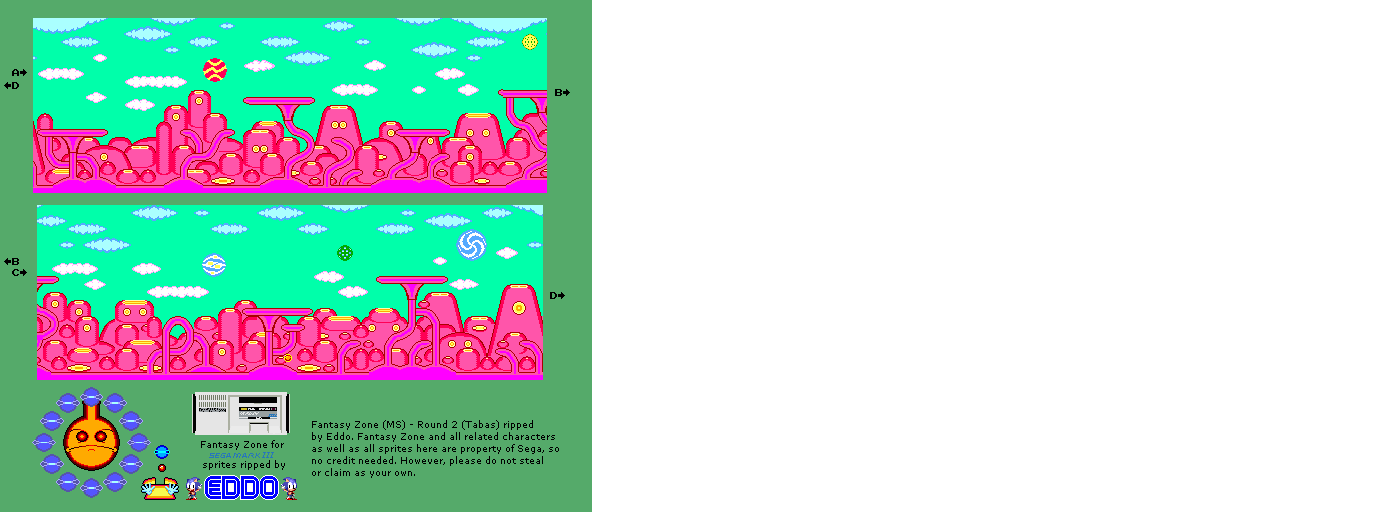
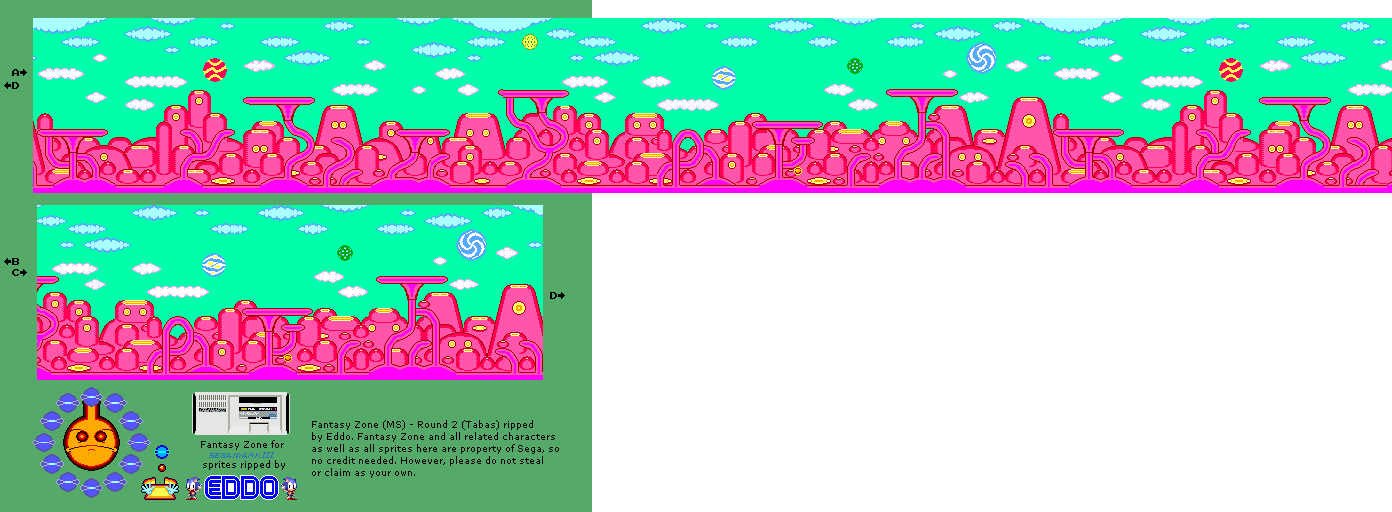
Level 2 background

Changed region(s): [[0.3707, 0.0312, 1.0, 0.375]]

diff --git a/src/Game/Game.cpp b/src/Game/Game.cpp
@@ -15,10 +15,17 @@ Game::Game()
 	if (!background1.loadFromFile("../res/Levels/Round 1 Wrapped.png"))
 		std::cerr << "Error loading Level Background";
 	backgroundSprite1 = new sf::Sprite(background1);
+
+	if (!background2.loadFromFile("../res/Levels/Round 2 Wrapped.png"))
+		std::cerr << "Error loading Level Background";
+	backgroundSprite2 = new sf::Sprite(background2);
+	curBackgroundSprite = backgroundSprite1;
 	//backgroundSprite1->setScale(sf::Vector2f{3.2f,2.5f});
-
-	//Set up viewport
-
+	//Set up viewports
+	viewport.setSize(sf::Vector2f{ 250.f,175.f });
+	viewport.setCenter(sf::Vector2f{ 840.f,101.5f });
+	viewportStart.setSize(sf::Vector2f{ 253.f,197.f });
+	viewportStart.setCenter(sf::Vector2f{ 140.5f,108.5f });
 	player->initialize();
 	initialize();
 	player->getView(&viewport);
@@ -57,16 +64,6 @@ void Game::run()
 	std::cout << window.isOpen() << std::endl;
 	while (window.isOpen())
 	{
-		reset();
-
-		//Set up viewports
-		viewport.setSize(sf::Vector2f{ 250.f,175.f });
-		viewport.setCenter(sf::Vector2f{ 840.f,101.5f });
-		viewportStart.setSize(sf::Vector2f{ 253.f,197.f });
-		viewportStart.setCenter(sf::Vector2f{ 140.5f,108.5f });
-
-		playerLives = 3;
-		player->reset();
 		score = 0;
 		tick = 0;
 
@@ -98,6 +95,12 @@ void Game::run()
 			window.draw(*backgroundSpriteStart);
 			window.display();
 			tick++;
+			if (gameBegun)
+			{
+				reset();
+				playerLives = 3;
+				player->reset();
+			}
 		}
 
 
@@ -107,6 +110,7 @@ void Game::run()
 
 		while (start && window.isOpen())
 		{
+			gameBegun = true;
 			while (const std::optional event = window.pollEvent())
 			{
 				if (event->is<sf::Event::Closed>())
@@ -132,11 +136,27 @@ void Game::run()
 
 			window.setView(viewport);
 
-			if (loading)
+			if (loading||swapLevels)
 			{
 				std::make_shared<Coin>(viewport.getCenter(), 1)->initialize();
 				setScreen("Player 1 Start");
 				loading = false;
+				if (swapLevels)
+				{
+					player->reset();
+					reset();
+				}
+				swapLevels = false;
+				switch (level)
+				{
+				case 1:
+					curBackgroundSprite = backgroundSprite1;
+					break;
+				case 2:
+					curBackgroundSprite = backgroundSprite2;
+					viewport.setCenter(sf::Vector2f{ 840.f,105.5f });
+					break;
+				}
 			}
 			else if (!loading)
 			{
@@ -166,7 +186,7 @@ void Game::run()
 					//loading = true; 
 					removeEnemies();
 				}
-				if (!(player->getActive()))
+				else if (!(player->getActive()))
 				{
 					if (playerLives == 0)
 					{
@@ -185,41 +205,46 @@ void Game::run()
 					//window.close();
 					//std::cout << "Game over" << std::endl;
 				}
-
-			while (inShop && window.isOpen())
-			{
-				if(loading)
+				else if (player->alive && (boss1!=nullptr && !boss1->alive&&level==1))
 				{
-					setScreen("PARTS SELECT");
-					loading = false;
+					level++;
+					swapLevels = true;
 				}
-				while (const std::optional event = window.pollEvent())
+
+				while (inShop && window.isOpen())
 				{
-					if (event->is<sf::Event::Closed>())
-						window.close();
-					handleMovementInput(event);
-					handleOtherInput(event);
-					if (event->is<sf::Event::KeyPressed>() && 
-						event->getIf<sf::Event::KeyPressed>()->code == sf::Keyboard::Key::Escape)
+					if(loading)
 					{
-						inShop = false;
-						shop->setState(Shop::State::NOT_ACTIVE);
-						shop = nullptr;
+						setScreen("PARTS SELECT");
+						loading = false;
 					}
-				}
-				std::vector <sf::Sprite*> sprites = shop->getSprites();
-				window.clear(sf::Color(0, 170, 0, 255));
+					while (const std::optional event = window.pollEvent())
+					{
+						if (event->is<sf::Event::Closed>())
+							window.close();
+						handleMovementInput(event);
+						handleOtherInput(event);
+						if (event->is<sf::Event::KeyPressed>() && 
+							event->getIf<sf::Event::KeyPressed>()->code == sf::Keyboard::Key::Escape)
+						{
+							inShop = false;
+							shop->setState(Shop::State::NOT_ACTIVE);
+							shop = nullptr;
+						}
+					}
+					std::vector <sf::Sprite*> sprites = shop->getSprites();
+					window.clear(sf::Color(0, 170, 0, 255));
 
-					for (int i = 0; i < sprites.size(); i++)
-						window.draw(*sprites.at(i));
-					window.display();
-					shop->update(input);
-					if (shop->getState() == Shop::State::NOT_ACTIVE)
-						inShop = false;
+						for (int i = 0; i < sprites.size(); i++)
+							window.draw(*sprites.at(i));
+						window.display();
+						shop->update(input);
+						if (shop->getState() == Shop::State::NOT_ACTIVE)
+							inShop = false;
 				}
 
 				window.setView(viewport);
-				window.draw(*backgroundSprite1);
+				window.draw(*curBackgroundSprite);
 				window.draw(*UIelement1->getText());
 				window.draw(*UIelement2->getText());
 
@@ -228,12 +253,13 @@ void Game::run()
 				drawEntities();
 				window.display();
 				tick++;
-
+				std::cout << player->getSpawnerCount() << std::endl;
 				//spawn the boss once all the spawners are killed 
 				if (player->getSpawnerCount() == 0 && !activeBoss && (player->alive))
 				{
 					removeEnemies();
-					std::make_shared<Boss>(player->getSprite()->getPosition().x)->initialize();
+					boss1 = std::make_shared<Boss>(player->getSprite()->getPosition().x);
+					boss1->initialize();
 					activeBoss = true;
 				}
 				else if (tick % 300 == 0 && !activeBoss && (player->alive))

diff --git a/src/Game/Game.h b/src/Game/Game.h
@@ -29,6 +29,9 @@ private:
 	sf::RenderWindow window;
 	sf::Texture background1;
 	sf::Sprite* backgroundSprite1;
+	sf::Texture background2;
+	sf::Sprite* backgroundSprite2;
+	sf::Sprite* curBackgroundSprite;
 	sf::Texture backgroundStart;
 	sf::Sprite* backgroundSpriteStart;
 	sf::View viewport;
@@ -60,6 +63,7 @@ private:
 	void initialize(); 
 	int score;
 	int highScore;
+	int level = 1;
 	bool invincible = false;
 	bool shopSpawned = false;
 	std::string UItext = "";
@@ -85,6 +89,7 @@ private:
 	std::shared_ptr<Spawner> spawnerDummy6 = std::make_shared<Spawner>(5);
 	std::shared_ptr<Spawner> spawnerDummy7 = std::make_shared<Spawner>(6);
 	std::shared_ptr<Spawner> spawnerDummy8 = std::make_shared<Spawner>(7);
+	std::shared_ptr<Boss> boss1;
 	std::shared_ptr<UI> UIelement1 = std::make_shared<UI>();
 	std::shared_ptr<UI> UIelement2 = std::make_shared<UI>();
 	std::shared_ptr<UI> loadingText = std::make_shared<UI>(); 
@@ -92,4 +97,6 @@ private:
 	sf::RectangleShape blankScreen; 
 	int playerLives = 3;
 	std::shared_ptr<Shop> shop = nullptr;
+	bool swapLevels = false;
+	bool gameBegun = false;
 };

diff --git a/src/Entity/Player/Player.cpp b/src/Entity/Player/Player.cpp
@@ -53,11 +53,13 @@ Player::~Player()
 void Player::setHealth()
 {
 	health = 10000000;
+	invinsible = true;
 }
 
 //don't try to walk to the left
 void Player::update(int input)
 {
+	//std::cout << health << std::endl;
 	if (health <= 0 && alive)
 	{
 		lives--; 
@@ -385,7 +387,10 @@ void Player::reset()
 {
 	curAction = Actions::GLIDE_RIGHT;
 	faceRight = true;
-	health = 1;
+	if (invinsible)
+		health = 100000;
+	else
+		health = 1;
 	set_active = true;
 	set_visible = true;
 	alive = true;

diff --git a/src/Entity/Enemy/Boss/Boss.h b/src/Entity/Enemy/Boss/Boss.h
@@ -13,7 +13,7 @@ public:
 	void death() override;
 	void move() override; 
 	void update(int) override;
-
+	int getHealth();
 	enum state { OPEN_MOUTH = 2,  AJAR_MOUTH = 1, CLOSED_MOUTH = 0};
 
 private:

diff --git a/src/Entity/Spawner/Spawner.cpp b/src/Entity/Spawner/Spawner.cpp
@@ -6,6 +6,7 @@
 Spawner::Spawner(int spawnerCount)
 {
 	spawnerNum++;  
+	std::cout << "start" << spawnerNum << std::endl;
 	set_visible = true;
 	set_active = true;
 	alive = true;

diff --git a/src/Entity/Enemy/Boss/Boss.cpp b/src/Entity/Enemy/Boss/Boss.cpp
@@ -107,3 +107,12 @@ void Boss::update(int input)
 
 	ticks++;
 }
+
+
+int Boss :: getHealth()
+{
+	if (mouth == nullptr)
+		return 1000;
+	else
+		return mouth->getHealth();
+}

diff --git a/src/Entity/Player/Player.h b/src/Entity/Player/Player.h
@@ -74,5 +74,5 @@ private:
 	int shootingTicks = 0;
 	int bombingTicks = 0;
 	int lives; 
-
+	bool invinsible = false;
 };
